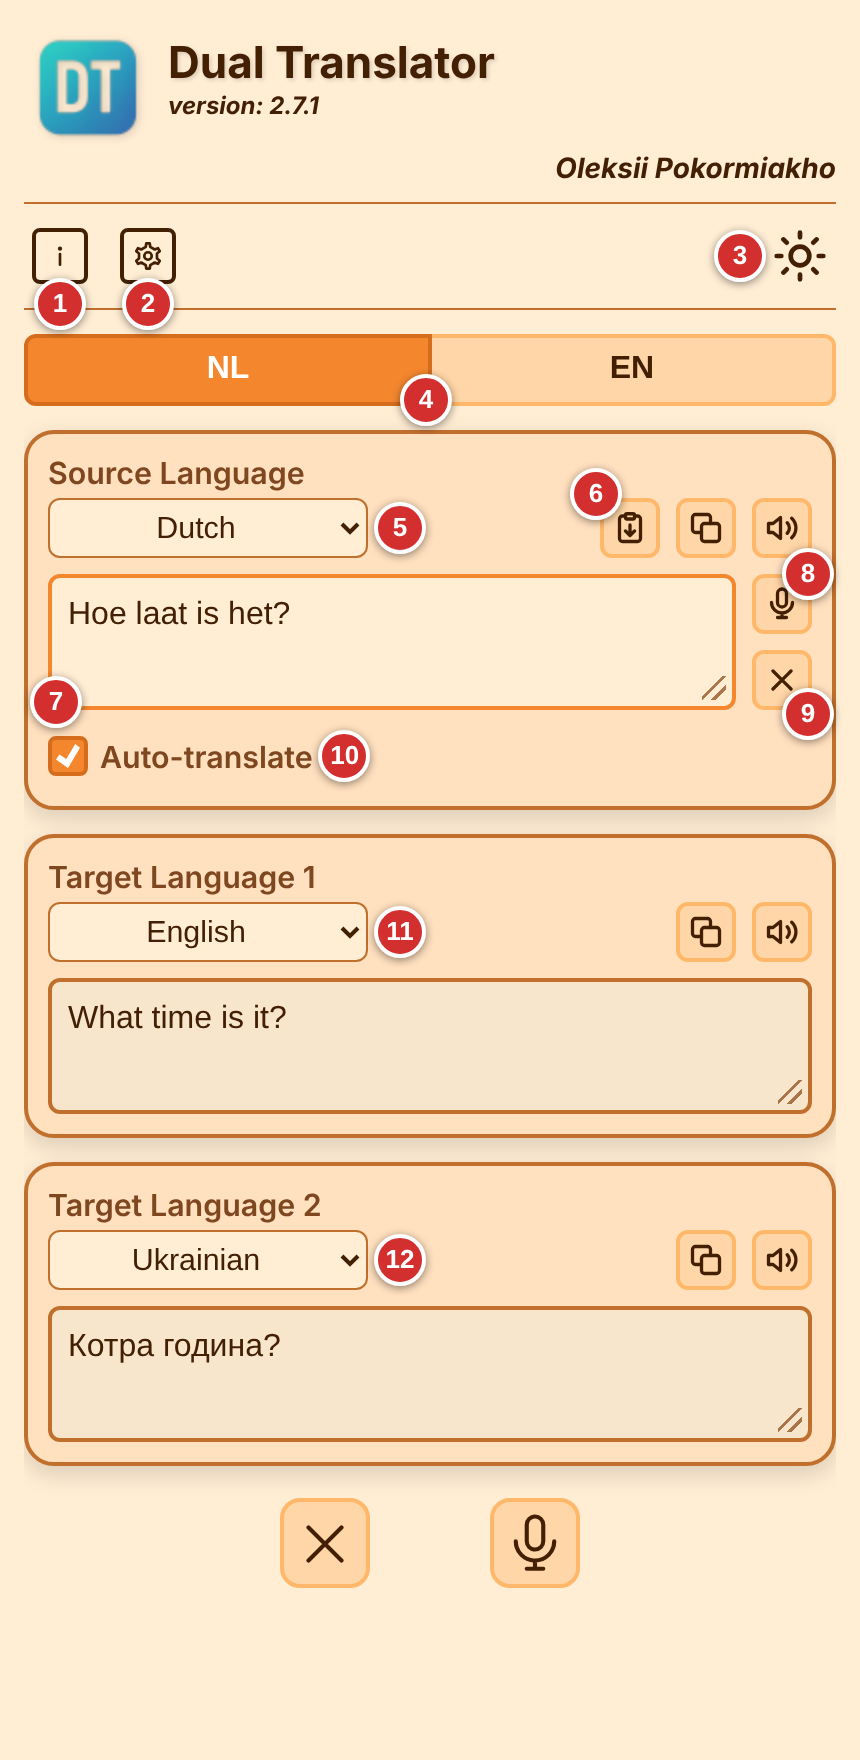
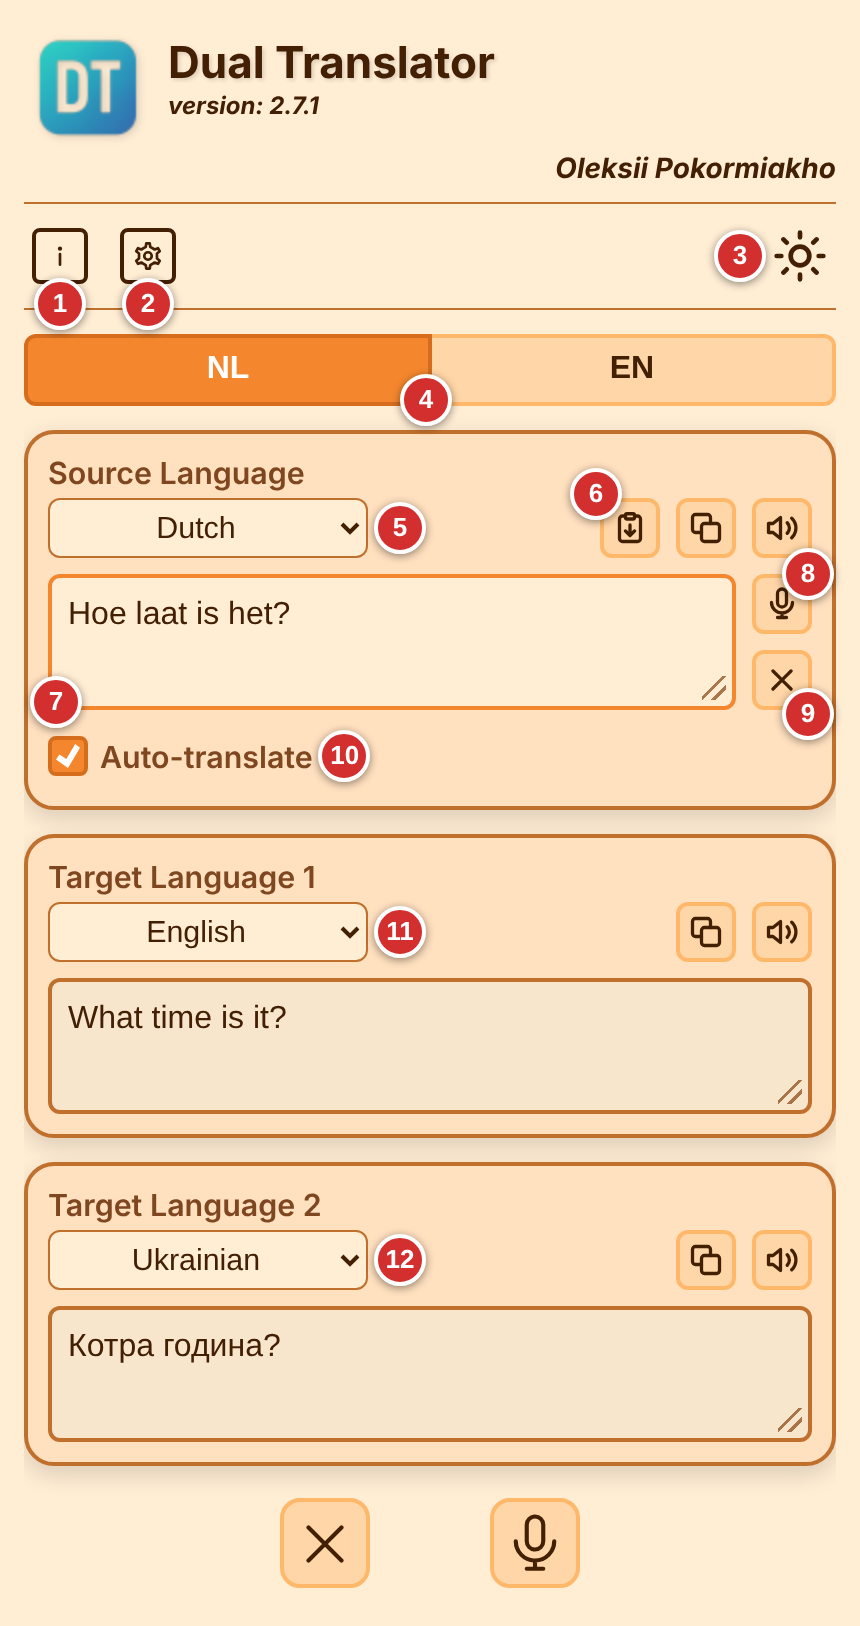
help fix

Changed region(s): [[0.0302, 0.0923, 0.9977, 0.984], [0.1814, 0.0308, 0.5744, 0.0923], [0.0302, 0.0, 0.1512, 0.0923]]

diff --git a/src/js/core/config.js b/src/js/core/config.js
@@ -6,7 +6,7 @@
 export const GOOGLE_API_KEY = "YOUR_GOOGLE_API_KEY";
 
 // Version shown on the main screen
-export const APP_VERSION = "2.7.1";
+export const APP_VERSION = "2.7.3";
 
 // Keys in localStorage. All of them start with the app name (the first one is also in theme-boot.js)
 export const STORAGE_KEY = "DT-settings";

diff --git a/src/css/help.css b/src/css/help.css
@@ -127,7 +127,7 @@
 
 .help-shot img {
   display: block;
-  max-width: 100%;
+  max-width: min(100%, 400px);
   height: auto;
   margin: 0 auto;
   border: 1px solid var(--border-color);
